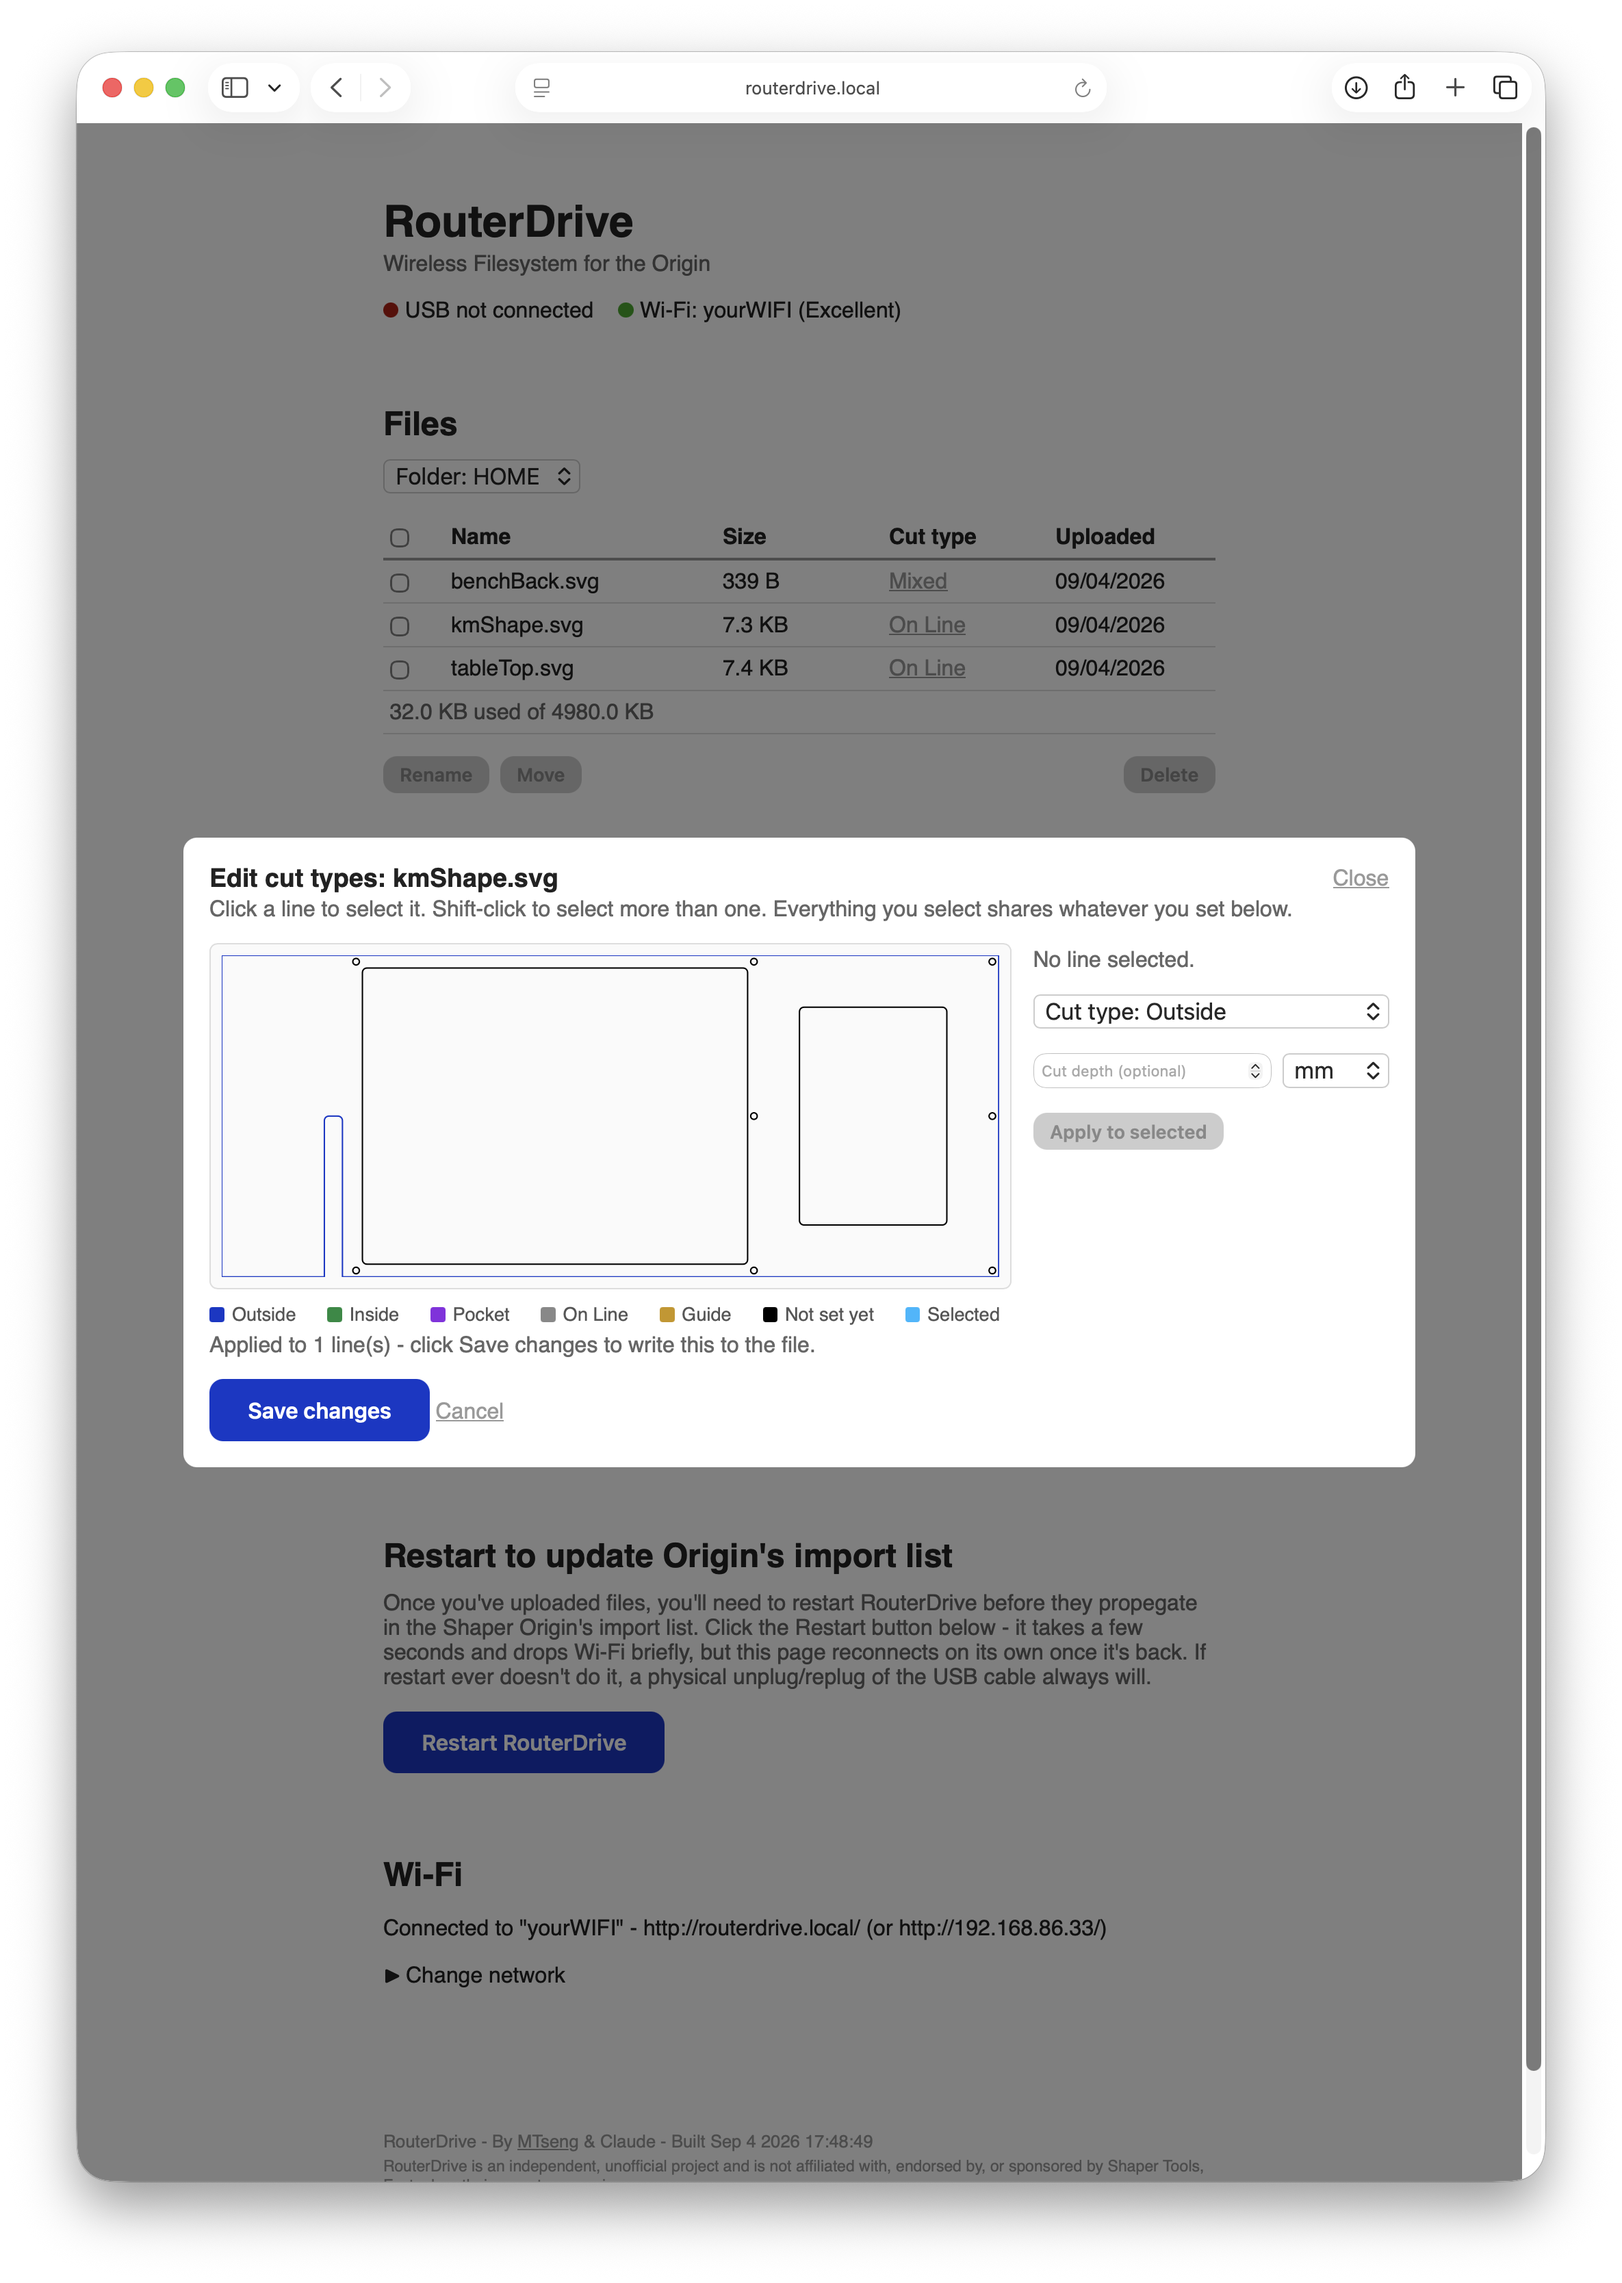
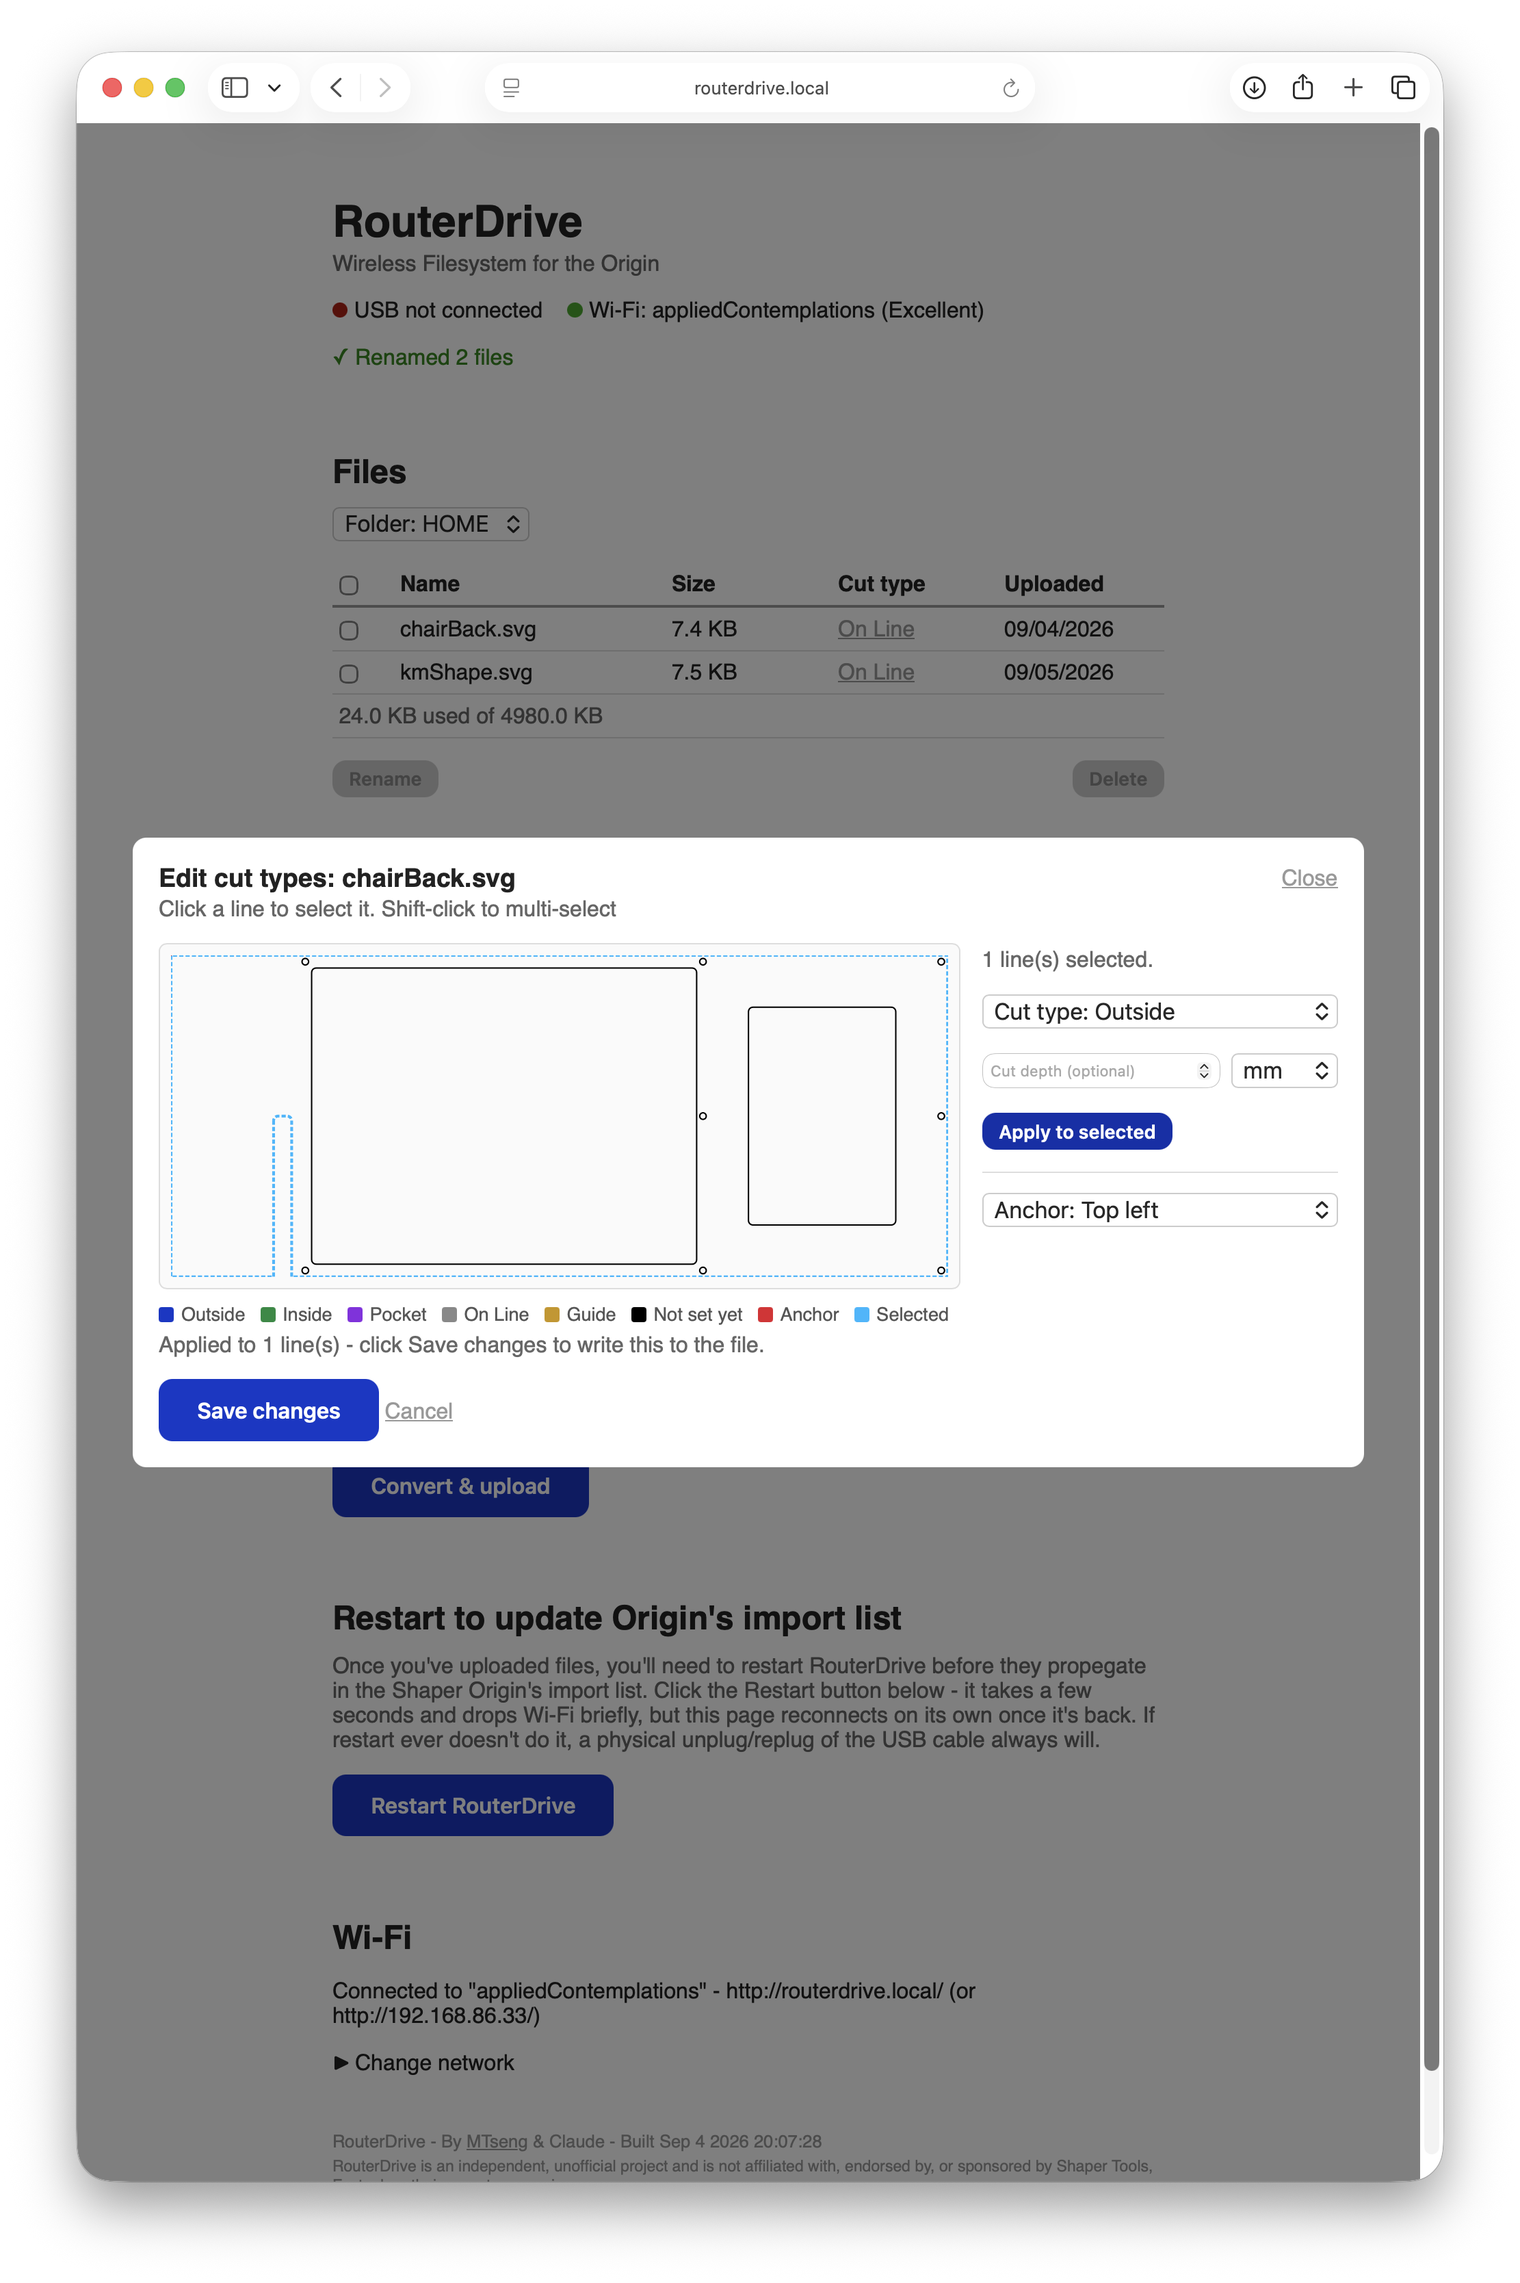
Stop the README pointing at test files that aren't in the repo
The harnesses run off-device - a headless browser driving the real
extracted page script, and standalone C++ reimplementing a function
against the same inputs. None of them are part of the sketch and none
affect how the device behaves, so they are staying out of the repo.

But the README named seven of them as though a reader could open them.
Those mentions now describe what was verified and how, without pointing
at ghosts, plus one short note saying where the tests live and what
"verified" means here.

Also picks up the regenerated UI screenshots.

Claude-Session: https://claude.ai/code/session_01UffhsoMcXSrtUJz5CPYArA

diff --git a/RouterDrive/README.md b/RouterDrive/README.md
@@ -44,9 +44,10 @@ Wi-Fi - see [`HOW_TO_USE.md`](HOW_TO_USE.md) instead.
   have gone in behind WL's back, leaving its bookkeeping inconsistent with
   the data it describes. **The invariant to preserve: both paths address
   the flash through the same WL handle, and only one WL instance is ever
-  mounted.** `test_storage_modes.cpp` models that state machine - 200
-  access cycles, nested begins, stray ends, and injected mount failures -
-  and is the cheapest way to check a change here without hardware.
+  mounted.** That state machine was modelled off-device - 200 access
+  cycles, nested begins, stray ends, injected mount failures - which is
+  the cheapest way to check a change here without hardware, and worth
+  redoing if you touch it.
   *Credit to Beau for spotting the original.*
 - **Wi-Fi upload** and **USB exposure** can't literally touch the flash at
   the same instant - that's a hard limitation of how the flash's
@@ -142,7 +143,14 @@ to coexist with an optional drag-and-drop bootloader - picking it does
 **not** require using that bootloader or change how you upload; the
 normal Upload button keeps working exactly as before.)
 
-### Sketch layout
+#**On the tests referenced throughout this README.** They are harnesses
+that run off-device - a headless browser driving the real extracted page
+script, and standalone C++ that reimplements a function against the same
+inputs - so none of them are part of the sketch and none affect how the
+device behaves. They are not in this repo. Where this README says
+something was verified, that is what it means.
+
+## Sketch layout
 
 Arduino IDE treats every `.h`/`.cpp` file that sits next to the `.ino` in
 the same folder as an extra tab - you don't need to do anything special,
@@ -339,8 +347,9 @@ it's only reached from `loop()` - which doesn't run until `setup()`
 returns. So setting a pattern during boot isn't enough on its own; the
 long waits in `setup()` have to call `ledDelay()` rather than `delay()` or
 the LED just freezes mid-pattern, lit but motionless, which looks like a
-hang rather than progress. `test_led_boot.cpp` covers this, including a
-negative control that confirms plain `delay()` does freeze it.
+hang rather than progress. Checked off-device against a simulated clock,
+including a negative control confirming that plain `delay()` does freeze
+the pattern.
 
 This is a first pass covering the states that seemed most worth signaling;
 it's all driven from `led.cpp` if you want to add more (e.g. a distinct
@@ -513,9 +522,10 @@ in its own colour with an Anchor legend entry, and refuses selection with
 an explanation rather than silently ignoring the click. Detection is
 deliberately liberal - any red-dominant fill, not strictly a right
 triangle - because a red shape encodes no cut type whatever its geometry,
-so declining to overwrite it is right either way. `test_anchor.js` covers
-it, including that the red survives a full save round trip; disabling the
-detector fails six of its checks.
+so declining to overwrite it is right either way. Checked in a headless
+browser against the real page script, including that the red survives a
+full save round trip; stubbing the detector out fails six of those
+checks.
 
 **Placing a standard anchor.** The Upload
 section and the cut editor can both write an anchor at a standard
@@ -607,8 +617,8 @@ junk in everybody's SVG.
 blanket upload or per-line edit - skips any red-filled shape. Without
 that, uploading an Affinity file that already had an anchor while also
 choosing a cut type would recolour the anchor into a cut and destroy it;
-`test_anchor_generate.js` covers exactly that, and disabling the anchor
-marking fails it. Shaper allows one custom anchor per object, so choosing
+That case is covered off-device, and disabling the anchor marking fails
+it. Shaper allows one custom anchor per object, so choosing
 a position replaces an existing anchor rather than adding a second, and
 the editor asks first because that discards geometry the user placed
 deliberately.
@@ -829,8 +839,8 @@ Line), then set one shape to Outside in the per-line editor. The edited
 shape is the only one with an attribute, so the scan saw a single value,
 called the whole file **Outside**, and discarded the colors - hiding the
 several On Line paths sitting right beside it. It should have said Mixed.
-Reported from real use; `test_color_detect.cpp` reproduces it and pins
-the fix, along with the two cases the union could plausibly have broken
+Reported from real use, then reproduced off-device before anything was
+changed - along with the two cases the union could plausibly have broken
 (one type stated both ways must stay that type, not become Mixed).
 
 Because the two are unioned, an unrecognized value on either side simply
@@ -914,8 +924,9 @@ usable instead of growing into one long scroll.
   Shaper export, and 200 allocations and 305KB for a 100KB drawing - all
   short-lived and odd-sized, on a board with roughly 300KB of usable
   heap. It is now char*-based with one reused buffer: zero allocations,
-  and about 3x faster. `bench_scan.cpp` holds both implementations, prints
-  those numbers, and asserts the two agree on every input.
+  and about 3x faster. Those numbers come from a benchmark holding both
+  implementations side by side, which also asserts the two agree on every
+  input - that is how the rewrite was checked before it went in.
 - The file list's **Cut type** column used to read only the first 4KB of
   each file, which was a real bug: a per-line edit further into the file
   was invisible, so a genuinely mixed file reported a single type (or
@@ -924,9 +935,9 @@ usable instead of growing into one long scroll.
   anywhere in the file is found. It prefers `shaper:cutType` and falls
   back to classifying fill/stroke colors, which is what lets a file
   color-coded in another app report its cut types here. Covered by
-  standalone C++ tests (`test_stream_scan.cpp`, `test_color_detect.cpp`)
-  including attributes straddling a chunk boundary and a real Shaper
-  Studio export, and confirmed on the device against real uploaded files.
+  standalone C++ tests including attributes straddling a chunk boundary
+  and a real Shaper Studio export, and confirmed on the device against
+  real uploaded files.
 - The per-line cut editor (see "Editing individual lines' cut type"
   above) is Playwright-tested against the real extracted page script
   (opening a fetched SVG, clicking to select single and multiple lines,
